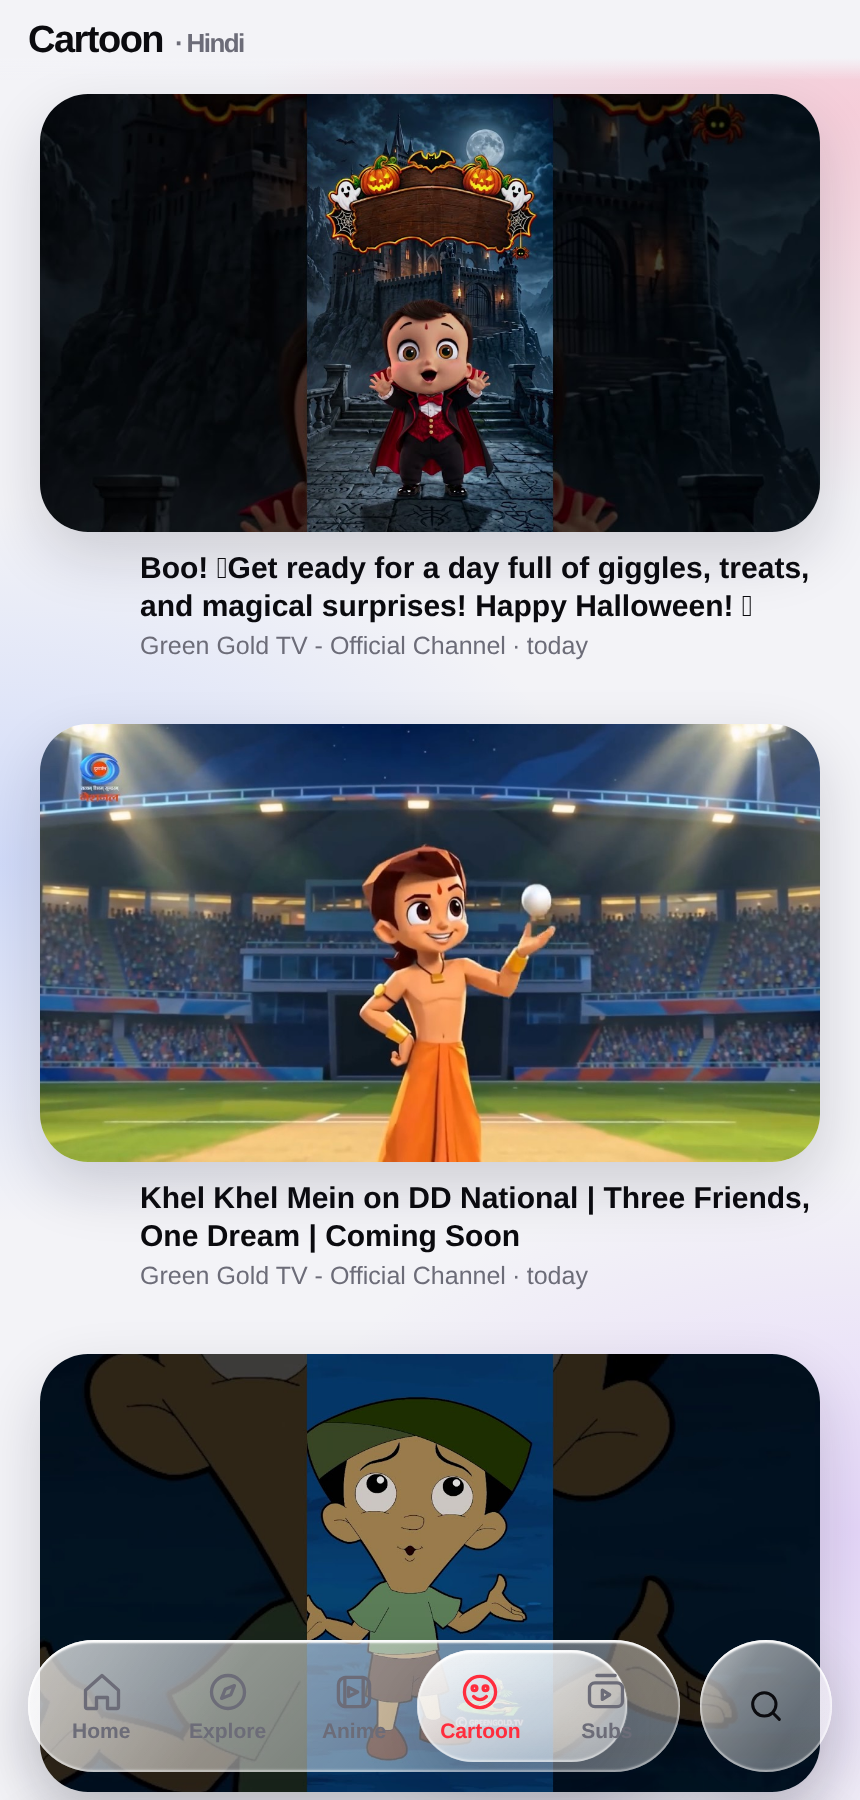
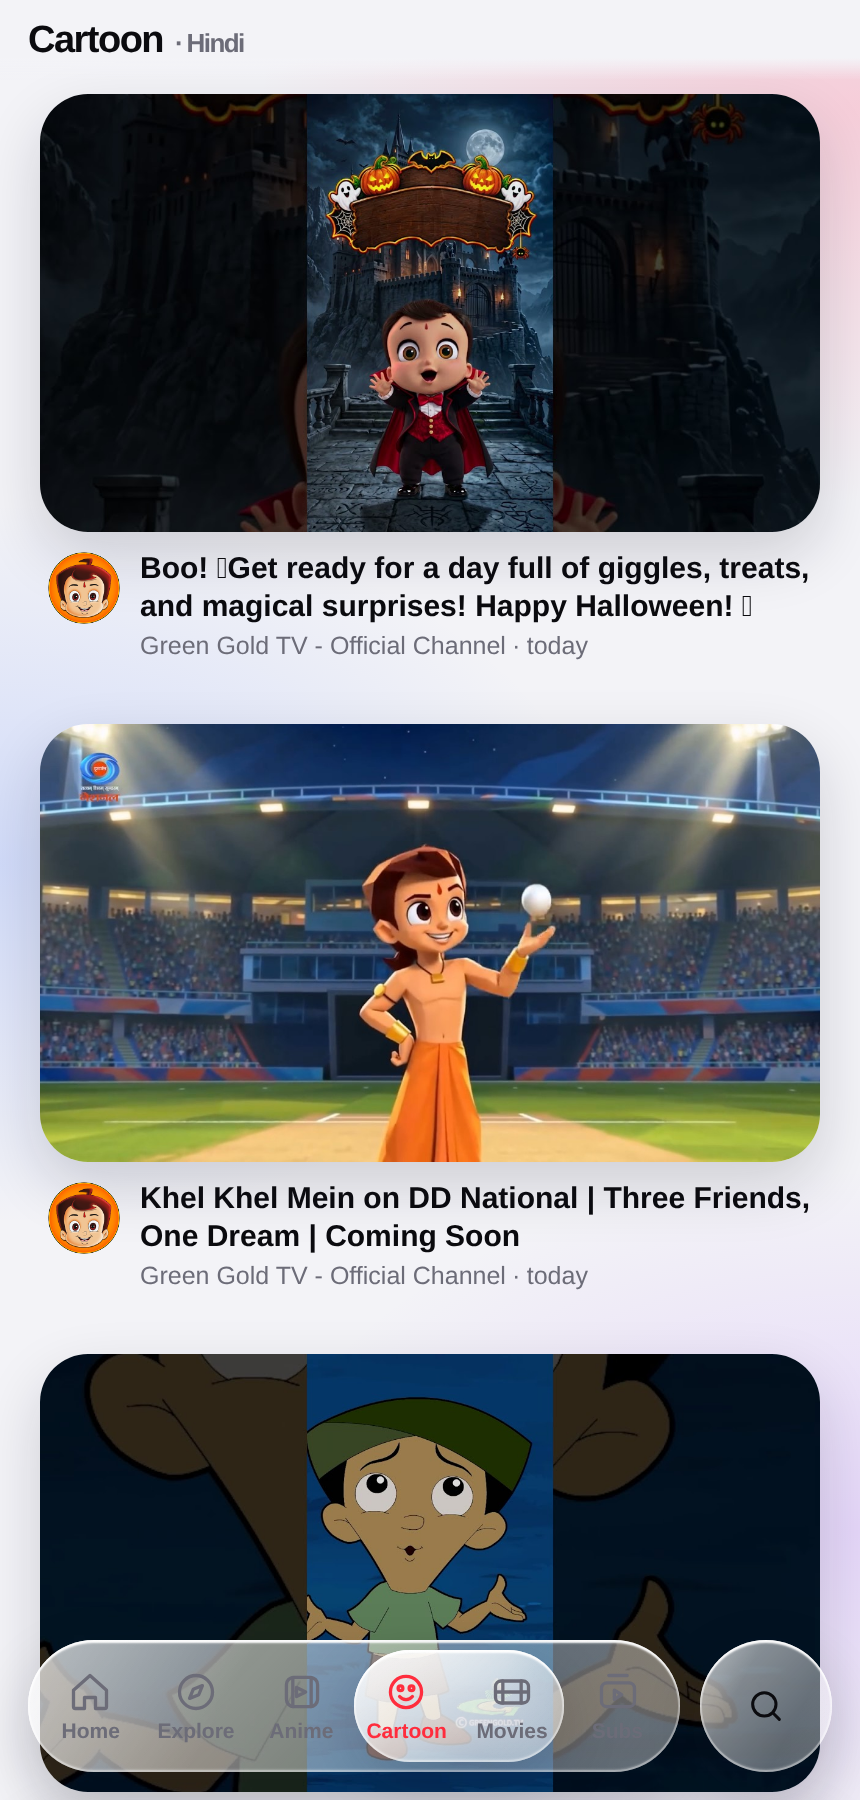
LiquidTube 7.2 — Animation (Hindi movies) tab
- Third content tab: Animation · Hindi movies, from Wow Kidz Movie, Green Gold
  Movies, Shemaroo Kids, PowerKids TV and Shemaroo Kids Hindi (playlistItems, no
  search quota), 50+ titles on first load.
- Dock is now Home / Explore / Anime / Cartoon / Movies / Subs; the lens and page
  maths already scale with the tab count.
- Same keep() rules: no reaction videos, no Shorts, 12h cache.
- Thumbnail fallback hardened: if maxres and hq are both missing the card gets a
  dark gradient instead of a white box.
- APK rebuilt as versionCode 27 / versionName 7.2.

diff --git a/app/assets/index.html b/app/assets/index.html
@@ -198,7 +198,7 @@ img.ld{opacity:1;scale:1}
  <div id="feed" style="padding-top:12px;transition:opacity .2s"><div class="ldr"><i></i><i></i><i></i></div><div class="skl"></div><div class="skl"></div><div class="skl"></div></div>
 </section>
 <section class="page" id="p-explore"><div class="top"><div class="row"><div class="logo">Explore</div><div class="ic"><button class="glass" data-ic="cast" data-do="cast" aria-label="Cast"></button><button class="glass" data-ic="more" data-do="more" aria-label="More"></button></div></div></div><div id="ex"></div></section>
-<section class="page" id="p-anime"><div class="top"><div class="logo">Anime <span style="font-weight:600;color:var(--mute);font-size:13px">· Hindi</span></div></div><div id="animefeed"></div></section><section class="page" id="p-cartoon"><div class="top"><div class="logo">Cartoon <span style="font-weight:600;color:var(--mute);font-size:13px">· Hindi</span></div></div><div id="cartoonfeed"></div></section><section class="page" id="p-subs"><div class="top"><div class="logo">Subscriptions</div></div><div class="sg" id="sg"></div><h2 id="subh">Latest</h2><div id="subfeed"></div></section>
+<section class="page" id="p-anime"><div class="top"><div class="logo">Anime <span style="font-weight:600;color:var(--mute);font-size:13px">· Hindi</span></div></div><div id="animefeed"></div></section><section class="page" id="p-cartoon"><div class="top"><div class="logo">Cartoon <span style="font-weight:600;color:var(--mute);font-size:13px">· Hindi</span></div></div><div id="cartoonfeed"></div></section><section class="page" id="p-movies"><div class="top"><div class="logo">Animation <span style="font-weight:600;color:var(--mute);font-size:13px">· Hindi movies</span></div></div><div id="moviesfeed"></div></section><section class="page" id="p-subs"><div class="top"><div class="logo">Subscriptions</div></div><div class="sg" id="sg"></div><h2 id="subh">Latest</h2><div id="subfeed"></div></section>
 <div id="search"><div class="sbar"><label class="glass"><svg viewBox="0 0 24 24"><circle cx="11" cy="11" r="7"/><path d="m20 20-3.5-3.5"/></svg><input id="q" placeholder="Search videos" autocomplete="off"></label><button id="cancel">Cancel</button></div><div class="sug" id="sug"></div><div id="results"></div></div>
 <div id="scrim"></div>
 <div id="pl" class="glass"><div class="art thumb"></div><b id="ptitle"></b><span id="pmeta"></span><div class="prow"><button class="glass" id="ppp">Like</button><button class="glass" id="plk">Channel</button><button class="glass" id="psave">Save</button><button class="glass" id="pcm">Comments</button><button class="glass" id="pclose">Close</button></div></div>
@@ -209,7 +209,7 @@ img.ld{opacity:1;scale:1}
 </div>
 <script>
 const $=id=>document.getElementById(id);
-const I={anime:'<rect x="3.5" y="4" width="17" height="16" rx="4"/><path d="M9 9.5v5l5-2.5z"/><path d="M7 4v16M17 4v16"/>',cartoon:'<circle cx="12" cy="12" r="8.5"/><circle cx="9" cy="10" r="1.3"/><circle cx="15" cy="10" r="1.3"/><path d="M8.5 14.5a4.5 4.5 0 0 0 7 0"/>',plus:'<path d="M12 5v14M5 12h14"/>',cast:'<path d="M3 8V6a2 2 0 0 1 2-2h14a2 2 0 0 1 2 2v12a2 2 0 0 1-2 2h-5"/><path d="M3 12a8 8 0 0 1 8 8M3 16a4 4 0 0 1 4 4M3 20h.01"/>',bell:'<path d="M6 8a6 6 0 1 1 12 0c0 7 3 8 3 8H3s3-1 3-8M10 20a2 2 0 0 0 4 0"/>',user:'<circle cx="12" cy="12" r="9"/><circle cx="12" cy="10" r="3"/><path d="M6.2 18.5a7 7 0 0 1 11.6 0"/>',more:'<circle cx="12" cy="5" r="1"/><circle cx="12" cy="12" r="1"/><circle cx="12" cy="19" r="1"/>',search:'<circle cx="11" cy="11" r="7"/><path d="m20 20-3.5-3.5"/>',home:'<path d="M3 11 12 3l9 8v9a1 1 0 0 1-1 1h-5v-6H9v6H4a1 1 0 0 1-1-1z"/>',explore:'<circle cx="12" cy="12" r="9"/><path d="m15.5 8.5-2 5-5 2 2-5z"/>',subs:'<rect x="3" y="7" width="18" height="13" rx="3"/><path d="M7 3h10M10 11l4 2.5-4 2.5z"/>',like:'<path d="M7 11v9H4v-9zM7 11l4-8c2 0 3 1.5 2.5 3.5L13 9h5.5a2 2 0 0 1 2 2.4l-1.3 6.5a2 2 0 0 1-2 1.6H7"/>',cmt:'<path d="M4 5h16v11H9l-5 4z"/>',share:'<path d="M4 12v7h16v-7M12 3v12M7.5 7.5 12 3l4.5 4.5"/>',remix:'<path d="M4 12a8 8 0 0 1 14-5.3L20 9M20 4v5h-5M20 12a8 8 0 0 1-14 5.3L4 15M4 20v-5h5"/>',audio:'<path d="M9 18V6l10-2v12"/><circle cx="6.5" cy="18" r="2.5"/><circle cx="16.5" cy="16" r="2.5"/>'};
+const I={anime:'<rect x="3.5" y="4" width="17" height="16" rx="4"/><path d="M9 9.5v5l5-2.5z"/><path d="M7 4v16M17 4v16"/>',movies:'<rect x="3" y="6" width="18" height="12" rx="3"/><path d="M7 6v12M17 6v12M3 12h18"/>',cartoon:'<circle cx="12" cy="12" r="8.5"/><circle cx="9" cy="10" r="1.3"/><circle cx="15" cy="10" r="1.3"/><path d="M8.5 14.5a4.5 4.5 0 0 0 7 0"/>',plus:'<path d="M12 5v14M5 12h14"/>',cast:'<path d="M3 8V6a2 2 0 0 1 2-2h14a2 2 0 0 1 2 2v12a2 2 0 0 1-2 2h-5"/><path d="M3 12a8 8 0 0 1 8 8M3 16a4 4 0 0 1 4 4M3 20h.01"/>',bell:'<path d="M6 8a6 6 0 1 1 12 0c0 7 3 8 3 8H3s3-1 3-8M10 20a2 2 0 0 0 4 0"/>',user:'<circle cx="12" cy="12" r="9"/><circle cx="12" cy="10" r="3"/><path d="M6.2 18.5a7 7 0 0 1 11.6 0"/>',more:'<circle cx="12" cy="5" r="1"/><circle cx="12" cy="12" r="1"/><circle cx="12" cy="19" r="1"/>',search:'<circle cx="11" cy="11" r="7"/><path d="m20 20-3.5-3.5"/>',home:'<path d="M3 11 12 3l9 8v9a1 1 0 0 1-1 1h-5v-6H9v6H4a1 1 0 0 1-1-1z"/>',explore:'<circle cx="12" cy="12" r="9"/><path d="m15.5 8.5-2 5-5 2 2-5z"/>',subs:'<rect x="3" y="7" width="18" height="13" rx="3"/><path d="M7 3h10M10 11l4 2.5-4 2.5z"/>',like:'<path d="M7 11v9H4v-9zM7 11l4-8c2 0 3 1.5 2.5 3.5L13 9h5.5a2 2 0 0 1 2 2.4l-1.3 6.5a2 2 0 0 1-2 1.6H7"/>',cmt:'<path d="M4 5h16v11H9l-5 4z"/>',share:'<path d="M4 12v7h16v-7M12 3v12M7.5 7.5 12 3l4.5 4.5"/>',remix:'<path d="M4 12a8 8 0 0 1 14-5.3L20 9M20 4v5h-5M20 12a8 8 0 0 1-14 5.3L4 15M4 20v-5h5"/>',audio:'<path d="M9 18V6l10-2v12"/><circle cx="6.5" cy="18" r="2.5"/><circle cx="16.5" cy="16" r="2.5"/>'};
 const ic=n=>`<svg viewBox="0 0 24 24">${I[n]}</svg>`;
 document.querySelectorAll('[data-ic]').forEach(b=>b.innerHTML=ic(b.dataset.ic));
 /* ================= LiquidTube — live data on the liquid-glass shell ================= */
@@ -233,7 +233,13 @@ window.THOK=function(img){
     img.src='https://i.ytimg.com/vi/'+img.dataset.id+'/hqdefault.jpg';
   }
 };
-window.TH=function(img){if(img.dataset.f){img.style.opacity='0';return}img.dataset.f='1';img.src='https://i.ytimg.com/vi/'+img.dataset.id+'/hqdefault.jpg';};
+window.TH=function(img){
+  if(img.dataset.f){                       // second failure: keep a tidy card, never a broken icon
+    img.style.display='none';
+    const p=img.parentElement;
+    if(p)p.style.background='linear-gradient(135deg,#23262f,#3d4256)';
+    return;
+  }img.dataset.f='1';img.src='https://i.ytimg.com/vi/'+img.dataset.id+'/hqdefault.jpg';};
 const thumbImg=id=>'<img src="https://i.ytimg.com/vi/'+esc(id)+'/maxresdefault.jpg" alt="" loading="lazy" data-id="'+esc(id)+'" data-q="0" onload="THOK(this)" onerror="TH(this)">';
 
 /* ---------- persisted state ---------- */
@@ -415,6 +421,10 @@ const SECTIONS={
   cartoon:{
     el:'cartoonfeed', key:'lt_cartoon',
     channels:['UCiBigY9XM-HaOxUc269ympg','UCmYOUJTZiVW72PNdYPFfkDA','UCTA8MKozQTzeOLJV1BQVMrA','UC760cHmgkk00FRT1dw2DMdA']
+  },
+  movies:{
+    el:'moviesfeed', key:'lt_movies',
+    channels:['UCkytZQj3NccDV3tLMoOxRIQ','UCYhdnzvcr5g22CmvcwpPhrQ','UC9iBBFfq7L3ipvodSLrU8gQ','UCj-SWZSE0AmotGSQ3apROHw','UCuvZqGuCLbDBdoP9-MPVsqg']
   }
 };
 const SEC={};
@@ -451,7 +461,7 @@ async function loadSection(name){
         if(!v||!v.videoId)return;
         out.push(vObj(v.videoId,{t:dec(it.snippet.title),c:c.title,ch:chId,
           pub:(it.contentDetails&&it.contentDetails.videoPublishedAt)||it.snippet.publishedAt,
-          cat:name==='anime'?'Anime':'Cartoon'}));
+          cat:name==='anime'?'Anime':name==='cartoon'?'Cartoon':'Animation'}));
       });
     }catch(e){}
   }
@@ -684,7 +694,7 @@ loadTrending().then(()=>new Promise(r=>setTimeout(r,Math.max(0,1100-(performance
 let tt;function toast(t){const e=$('toast');e.textContent=t;e.classList.add('on');clearTimeout(tt);tt=setTimeout(()=>e.classList.remove('on'),2200)}
 
 /* ---------- dock: glass lens + sliding pages (from the reference) ---------- */
-const P=['home','explore','anime','cartoon','subs'].map(n=>$('p-'+n)),T=['home','explore','anime','cartoon','subs'],L=['Home','Explore','Anime','Cartoon','Subs'],N=T.length;
+const P=['home','explore','anime','cartoon','movies','subs'].map(n=>$('p-'+n)),T=['home','explore','anime','cartoon','movies','subs'],L=['Home','Explore','Anime','Cartoon','Movies','Subs'],N=T.length;
 $('tabrow').innerHTML=T.map((t,i)=>`<button class="tab" tabindex="0" data-i="${i}">${ic(t)}${L[i]}</button>`).join('');
 const tabs=$('tabs'),tabEls=[...tabs.querySelectorAll('.tab')];function replay(p){
   [...p.querySelectorAll('.chip,.vh,.card,.big,#sg>button')].slice(0,8).forEach((e,k)=>{e.style.animation='none';void e.offsetWidth;e.style.animation='';e.style.animationDelay=(k*55)+'ms'});
@@ -700,7 +710,8 @@ function render(anim){
   if(idx!==lastIdx){lastIdx=idx;const l=$('lens');l.classList.remove('jelly');void l.offsetWidth;l.classList.add('jelly');replay(P[idx]);
     const t=T[idx];
     if(t==='anime')renderSection('anime');
-    if(t==='cartoon')renderSection('cartoon');}
+    if(t==='cartoon')renderSection('cartoon');
+    if(t==='movies')renderSection('movies');}
 }
 const at=e=>{const r=tabs.getBoundingClientRect();return clamp((e.clientX-r.left-5)/((r.width-10)/N)-.5)};
 tabs.addEventListener('pointerdown',e=>{press=true;moved=false;sx=e.clientX;try{tabs.setPointerCapture(e.pointerId)}catch(_){}const n=Math.round(at(e));if(n===Math.round(pos))P[n].scrollTo({top:0,behavior:'smooth'});pos=n;render(true)});
